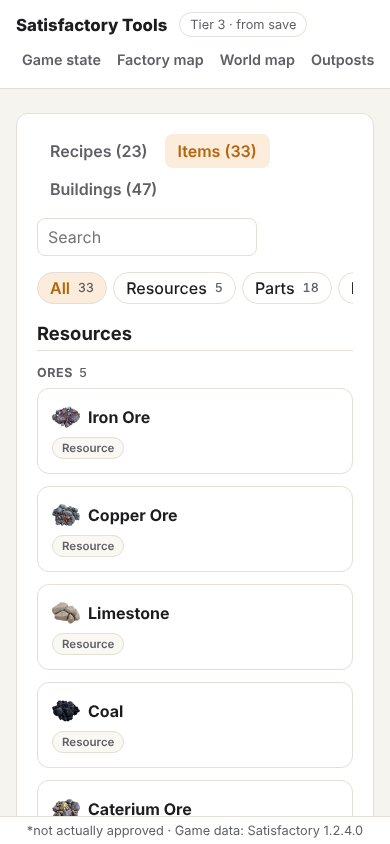
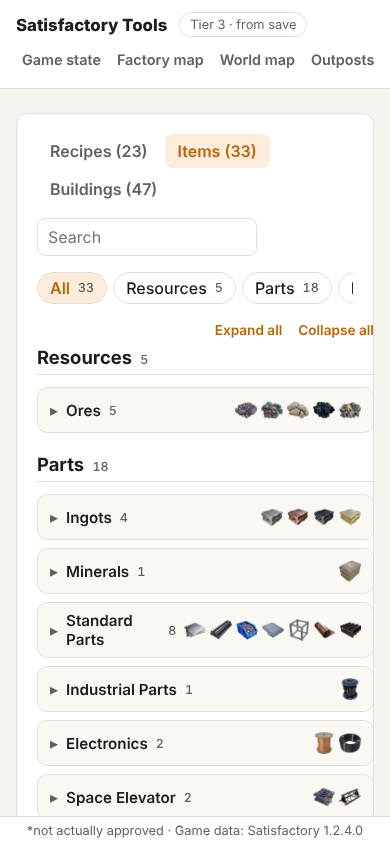
Collapse catalog groups by default
Each subcategory is a collapsible row with its count and a strip of icons,
so the page no longer scrolls forever. Searching opens every matching group;
Expand all / Collapse all toggle them together.

Claude-Session: https://claude.ai/code/session_01HqhhHimo9oG3rSj89KyS2P

Changed region(s): [[0.0923, 0.3697, 0.9231, 0.9858], [0.7692, 0.3697, 0.9538, 0.4005], [0.5538, 0.3697, 0.7385, 0.4005]]

diff --git a/src/screens/Planner.tsx b/src/screens/Planner.tsx
@@ -38,6 +38,7 @@ export function Planner({ state, kind, query = '' }: { state: GameState; kind?: 
   const [tab, setTab] = useState<Tab>(() => startTab(kind, query, cat.recipes.map((r) => r.name)))
   const [q, setQ] = useState(query)
   const [category, setCategory] = useState<string | null>(null)
+  const [open, setOpen] = useState<Set<string>>(() => new Set())
   const { save } = useOutposts()
   const blur = state.spoilers === 'blur'
 
@@ -63,9 +64,20 @@ export function Planner({ state, kind, query = '' }: { state: GameState; kind?: 
   const shown = shownCategory ? tree.filter((c) => c.id === shownCategory) : tree
   const total = tree.reduce((n, c) => n + count(c), 0)
 
+  // Groups start collapsed so the page stays short; a search opens every group that matches.
+  const searching = lc !== ''
+  const allGroupKeys = shown.flatMap((c) => c.groups.map((g) => `${c.id}/${g.id}`))
+  const toggle = (key: string) =>
+    setOpen((prev) => {
+      const next = new Set(prev)
+      if (!next.delete(key)) next.add(key)
+      return next
+    })
+
   const pickTab = (t: Tab) => {
     setTab(t)
     setCategory(null)
+    setOpen(new Set())
   }
 
   const recipeCard = (r: Recipe) => (
@@ -191,19 +203,44 @@ export function Planner({ state, kind, query = '' }: { state: GameState; kind?: 
 
           <div className="catalog-groups">
             {tree.length === 0 && <p className="muted">Nothing matches “{q.trim()}”.</p>}
+            {tree.length > 0 && (
+              <div className="group-actions">
+                <button type="button" className="link" onClick={() => setOpen(new Set(allGroupKeys))}>Expand all</button>
+                <button type="button" className="link" onClick={() => setOpen(new Set())}>Collapse all</button>
+              </div>
+            )}
             {shown.map((c) => (
               <section key={c.id} className="catalog-category" aria-labelledby={`cat-${c.id}`}>
-                <h3 id={`cat-${c.id}`} className="category-title">{c.name}</h3>
-                {c.groups.map((g) => (
-                  <section key={g.id} className="catalog-group" aria-label={`${c.name}: ${g.name}`}>
-                    {(c.groups.length > 1 || g.name !== c.name) && (
-                      <h4 className="group-title">
-                        {g.name} <span className="cat-count">{g.members.length}</span>
-                      </h4>
-                    )}
-                    <div className={tab === 'recipes' ? 'cards' : 'cards compact'}>{(g.members as (Recipe | Item | Building)[]).map(card)}</div>
-                  </section>
-                ))}
+                <h3 id={`cat-${c.id}`} className="category-title">
+                  {c.name} <span className="cat-count">{count(c)}</span>
+                </h3>
+                {c.groups.map((g) => {
+                  const key = `${c.id}/${g.id}`
+                  const members = g.members as (Recipe | Item | Building)[]
+                  const isOpen = searching || open.has(key)
+                  return (
+                    <details key={g.id} className="catalog-group" open={isOpen}>
+                      <summary
+                        onClick={(e) => {
+                          e.preventDefault()
+                          if (!searching) toggle(key)
+                        }}
+                      >
+                        <span className="group-title">{g.name}</span>
+                        <span className="cat-count">{g.members.length}</span>
+                        {!isOpen && (
+                          <span className="group-preview" aria-hidden="true">
+                            {members.slice(0, 12).map((m) => (
+                              <GameIcon key={m.id} id={'products' in m ? m.products[0].item : m.id} size={22} link={false} />
+                            ))}
+                            {members.length > 12 && <span className="cat-count">+{members.length - 12}</span>}
+                          </span>
+                        )}
+                      </summary>
+                      {isOpen && <div className={tab === 'recipes' ? 'cards' : 'cards compact'}>{members.map(card)}</div>}
+                    </details>
+                  )
+                })}
               </section>
             ))}
             {!q && shownCategory === null && (

diff --git a/src/index.css b/src/index.css
@@ -171,11 +171,21 @@ a.chip:hover { border-color: var(--accent); color: var(--text); }
 .cat-link:hover { background: var(--surface-2); }
 .cat-link.active { background: color-mix(in srgb, var(--accent) 16%, transparent); color: var(--accent-ink); font-weight: 600; }
 .cat-count { color: var(--muted); font-size: .78rem; font-weight: 500; font-variant-numeric: tabular-nums; }
-.catalog-groups { display: grid; gap: 24px; min-width: 0; }
-.catalog-category { display: grid; gap: 14px; }
+.catalog-groups { display: grid; gap: 20px; min-width: 0; }
+.catalog-category { display: grid; gap: 8px; }
+.catalog-category > .category-title { margin-bottom: 4px; }
 .category-title { margin: 0; font-size: 1.15rem; padding-bottom: 6px; border-bottom: 1px solid var(--border); }
-.catalog-group { display: grid; gap: 8px; }
-.group-title { margin: 0; font-size: .78rem; font-weight: 700; text-transform: uppercase; letter-spacing: .05em; color: var(--muted); display: flex; align-items: baseline; gap: 6px; }
+.catalog-group { border: 1px solid var(--border); border-radius: 10px; background: var(--surface-2); }
+.catalog-group > summary { display: flex; align-items: center; gap: 8px; min-height: 44px; padding: 8px 12px; cursor: pointer; list-style: none; }
+.catalog-group > summary::-webkit-details-marker { display: none; }
+.catalog-group > summary::before { content: '▸'; color: var(--muted); transition: transform .15s; }
+.catalog-group[open] > summary::before { transform: rotate(90deg); }
+.catalog-group > summary:hover .group-title { color: var(--accent-ink); }
+.catalog-group > .cards { padding: 4px 12px 12px; }
+.group-title { font-weight: 600; font-size: .95rem; }
+.group-preview { display: flex; align-items: center; gap: 4px; margin-left: auto; min-width: 0; overflow: hidden; }
+.group-actions { display: flex; justify-content: flex-end; gap: 16px; font-size: .85rem; margin-bottom: -12px; }
+.category-title .cat-count { margin-left: 4px; }
 @media (max-width: 760px) {
   .catalog-body { grid-template-columns: minmax(0, 1fr); gap: 14px; }
   .catalog-nav { position: static; display: flex; gap: 6px; overflow-x: auto; padding-bottom: 4px; }
